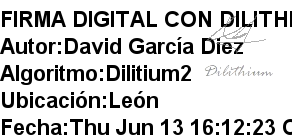
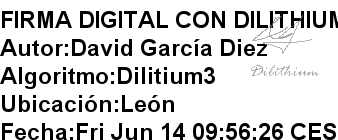
Cambio de color en la firma visual
Ahora solo se puede firmar una vez por documento para evitar errores de concepto

diff --git a/src/controlador/NotarioDigital.java b/src/controlador/NotarioDigital.java
@@ -75,7 +75,7 @@ public class NotarioDigital extends JFrame {
 	private static FirmaDigital firmaDigital; // Para la parte de Modelo de la aplicación
 	private static VisorPDF visor; // Para la parte de Vista de la aplicación
 	private final static String dir = System.getProperty("user.dir"); // Variable para acceder a los recursos del
-																		// proyecto
+	private boolean firmado = false;																// proyecto
 	private JPanel panel;
 	private static String archivo_output;
 	static {
@@ -226,7 +226,7 @@ public class NotarioDigital extends JFrame {
 		 */
 		visual2.addActionListener(new ActionListener() {
 			public void actionPerformed(ActionEvent e) {
-				if (pdfCargado == 1) {
+				if (!firmado) {
 
 					FrameVisual panelFirma = new FrameVisual(NotarioDigital.this,visor.getWidth(), visor.getHeight(), getX() + 7,
 							getY() + 55);
@@ -261,7 +261,7 @@ public class NotarioDigital extends JFrame {
 					worker.execute();
 
 				} else {
-					JOptionPane.showMessageDialog(null, "No se ha cargado ningún PDF.", "Error",
+					JOptionPane.showMessageDialog(null, "No se puede firmar un PDF ya firmado.", "Error",
 							JOptionPane.ERROR_MESSAGE);
 				}
 			}
@@ -269,7 +269,7 @@ public class NotarioDigital extends JFrame {
 		});
 		visual3.addActionListener(new ActionListener() {
 			public void actionPerformed(ActionEvent e) {
-				if (pdfCargado == 1) {
+				if (!firmado) {
 
 					FrameVisual panelFirma = new FrameVisual(NotarioDigital.this,visor.getWidth(), visor.getHeight(), getX() + 7,
 							getY() + 55);
@@ -304,7 +304,7 @@ public class NotarioDigital extends JFrame {
 					worker.execute();
 
 				} else {
-					JOptionPane.showMessageDialog(null, "No se ha cargado ningún PDF.", "Error",
+					JOptionPane.showMessageDialog(null, "No se puede firmar un PDF ya firmado.", "Error",
 							JOptionPane.ERROR_MESSAGE);
 				}
 			}
@@ -312,7 +312,7 @@ public class NotarioDigital extends JFrame {
 		});
 		visual5.addActionListener(new ActionListener() {
 			public void actionPerformed(ActionEvent e) {
-				if (pdfCargado == 1) {
+				if (!firmado) {
 
 					FrameVisual panelFirma = new FrameVisual(NotarioDigital.this,visor.getWidth(), visor.getHeight(), getX() + 7,
 							getY() + 55);
@@ -347,7 +347,7 @@ public class NotarioDigital extends JFrame {
 					worker.execute();
 
 				} else {
-					JOptionPane.showMessageDialog(null, "No se ha cargado ningún PDF.", "Error",
+					JOptionPane.showMessageDialog(null, "No se puede firmar un pdf ya firmado.", "Error",
 							JOptionPane.ERROR_MESSAGE);
 				}
 			}
@@ -357,8 +357,13 @@ public class NotarioDigital extends JFrame {
 		rapida2.addActionListener(new ActionListener() {
 			public void actionPerformed(ActionEvent e) {
 				try {
-					firmaAutomatica(2);
-					setPDFCargado(2); // Modificado(para que pregunte por guardar)
+					if(!firmado) {
+						firmaAutomatica(2);
+						setPDFCargado(2);
+					}else {
+						JOptionPane.showMessageDialog(null, "No se puede firmar un PDF ya firmado.", "Error",
+								JOptionPane.ERROR_MESSAGE);
+					}
 				} catch (IOException e1) {
 					e1.printStackTrace();
 				}
@@ -368,8 +373,13 @@ public class NotarioDigital extends JFrame {
 		rapida3.addActionListener(new ActionListener() {
 			public void actionPerformed(ActionEvent e) {
 				try {
-					firmaAutomatica(3);
-					setPDFCargado(2); // Modificado(para que pregunte por guardar)
+					if(!firmado) {
+						firmaAutomatica(3);
+						setPDFCargado(2); 
+					}else {
+						JOptionPane.showMessageDialog(null, "No se puede firmar un PDF ya firmado.", "Error",
+								JOptionPane.ERROR_MESSAGE);
+					}
 				} catch (IOException e1) {
 					e1.printStackTrace();
 				}
@@ -379,8 +389,13 @@ public class NotarioDigital extends JFrame {
 		rapida5.addActionListener(new ActionListener() {
 			public void actionPerformed(ActionEvent e) {
 				try {
-					firmaAutomatica(5);
-					setPDFCargado(2); // Modificado(para que pregunte por guardar)
+					if(!firmado) {	//Solo se puede firmar una vez
+						firmaAutomatica(5);
+						setPDFCargado(2); 
+					}else {
+						JOptionPane.showMessageDialog(null, "No se puede firmar un PDF ya firmado.", "Error",
+								JOptionPane.ERROR_MESSAGE);
+					}
 				} catch (IOException e1) {
 					e1.printStackTrace();
 				}
@@ -559,6 +574,7 @@ public class NotarioDigital extends JFrame {
 			verificar(0);
 			visor.setDocumento(docFirmado);
 			pdfCargado = 2;
+			this.firmado = true;
 		}
 	}
 	/**
@@ -621,6 +637,7 @@ public class NotarioDigital extends JFrame {
 			verificar(0);
 			visor.setDocumento(docFirmado);
 			pdfCargado = 2;
+			this.firmado = true;	//Para evitar que se pueda firmar dos veces
 		}
 	}
 	
@@ -695,10 +712,13 @@ public class NotarioDigital extends JFrame {
 			PDSignature firmaDocumento;
 			firmaDocumento = buscarFirmaDocumento(doc);
 			if (firmaDocumento != null) {
+				firmado = true;
 				FirmaDigital verificador = new FirmaDigital();
 				Boolean firmaVerificada = verificador.verificarFirmaDocumento(firmaDocumento);
 				visor.getPropiedadesFirma(firmaVerificada, verificador.getFirma(), verificador.getClavePublica().getEncoded(),
 						verificador.getCertificado());
+			}else {
+				firmado = false;
 			}
 		}
 	}

diff --git a/src/vista/FrameVisual.java b/src/vista/FrameVisual.java
@@ -24,7 +24,7 @@ public class FrameVisual extends JDialog {
     	super(owner, "Select Area", true);
         this.setSize(width, height);
         this.setUndecorated(true);    //Necesario para la transparencia
-        this.setBackground(new Color(224, 206, 67, 30));
+        this.setBackground(new Color(48, 155, 39, 50));
         this.setLocation(posX, posY);
         
         addMouseListener(new MouseAdapter() {
